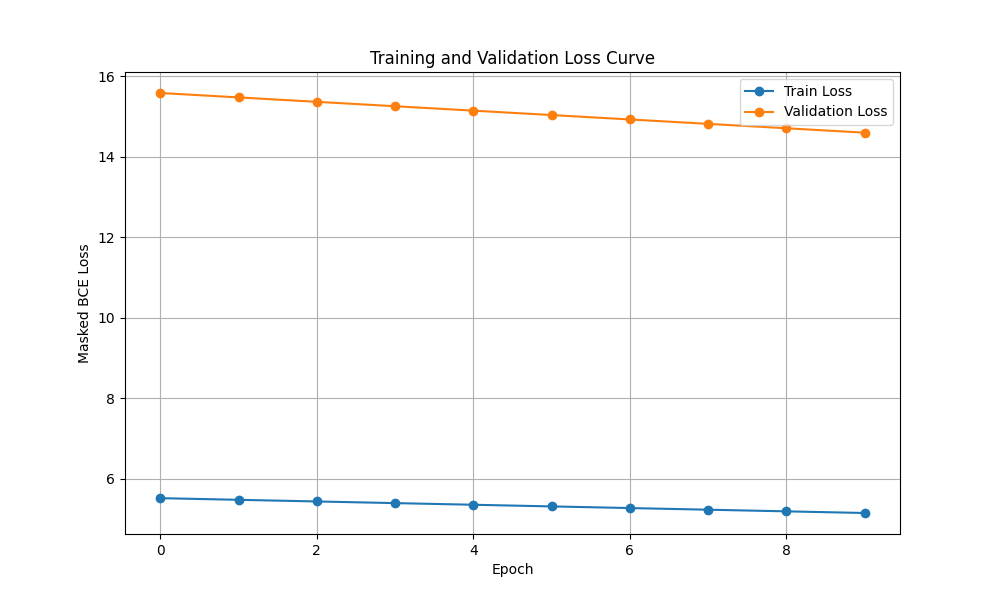
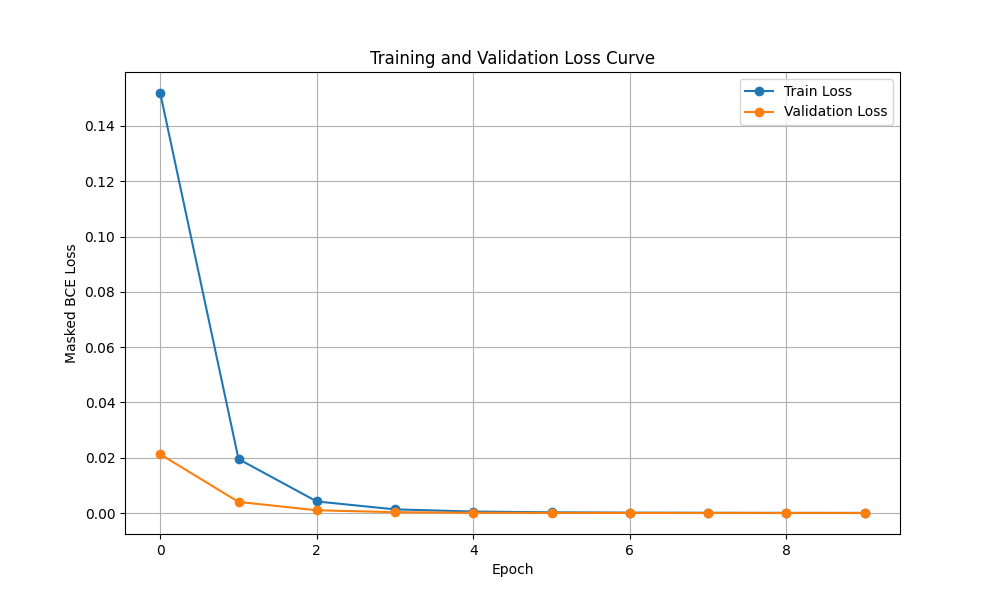
fixed targets

diff --git a/src/seeder.py b/src/seeder.py
@@ -8,24 +8,29 @@ class SimplicialSeeder:
     Seeding strategies for Simplicial Contagion Models.
     Designed to be stateless with respect to tree expansion to support BFS/MCMC rollouts safely.
     """
-    def __init__(self, data_dir: str = None):
-        if data_dir is None:
-            data_dir = Path.cwd().parent / "notebooks" / "data"
+    def __init__(self, num_nodes: int, links: List[List[int]], flat_triangles: List[Tuple[int, int, int]]):
+        self.N = num_nodes
+        self.links = links
+        
+        # 1. Reconstruct the nested adjacency list expected by the CELF proxy
+        self.triangles = [[] for _ in range(self.N)]
+        for i, j, k in flat_triangles:
+            self.triangles[i].append((j, k))
+
+        # 2. Convert flat triangles into a unique [3, T] tensor for vectorization
+        triplets = set()
+        for i, j, k in flat_triangles:
+            triplets.add(tuple(sorted([i, j, k])))
+        
+        if triplets:
+            self.triangles_tensor = torch.tensor(list(triplets), dtype=torch.long).t()
         else:
-            data_dir = Path(data_dir)
-
-        # Load topologies
-        self.edge_index_1 = torch.load(data_dir / "edge_index_simple.pt")
-        self.edge_attr_1 = torch.load(data_dir / "edge_attr_simple.pt")
-        self.edge_index_2 = torch.load(data_dir / "edge_index_hyper.pt")
-        self.edge_attr_2 = torch.load(data_dir / "edge_attr_hyper.pt")
-
-        self.N = max(self.edge_index_1.max().item(), self.edge_index_2.max().item()) + 1
+            self.triangles_tensor = torch.empty((3, 0), dtype=torch.long)
 
         self._precompute_simplicial_degree()
         self._precompute_co_seeding_edges()
 
-        self._build_adjacency_lists()
+        # Pass the reconstructed nested list to CELF
         self.celf_optimizer = OptimizedSimplicialSeeding(self.N, 0.0, self.links, self.triangles)
 
     def __call__(self, current_seeds: List[int], beta: float = 0.1, beta_delta: float = 0.2) -> List[Tuple[int, float]]:
@@ -61,15 +66,23 @@ class SimplicialSeeder:
         return candidates
 
     def _precompute_simplicial_degree(self):
-        """$O(N)$ vectorization for 2-simplex participation counts."""
-        self.node_tri_counts = torch.bincount(self.edge_index_2.flatten(), minlength=self.N)
+        """O(N) vectorization for 2-simplex participation counts."""
+        if self.triangles_tensor.numel() == 0:
+            self.simplicial_ranking = []
+            return
+            
+        self.node_tri_counts = torch.bincount(self.triangles_tensor.flatten(), minlength=self.N)
         self.simplicial_ranking = torch.argsort(self.node_tri_counts, descending=True).tolist()
 
     def _precompute_co_seeding_edges(self):
-        """$O(T \log T)$ vectorized edge overlap precomputation."""
-        e1 = self.edge_index_2[[0, 1], :]
-        e2 = self.edge_index_2[[1, 2], :]
-        e3 = self.edge_index_2[[0, 2], :]
+        """O(T \log T) vectorized edge overlap precomputation."""
+        if self.triangles_tensor.numel() == 0:
+            self.sorted_edges = []
+            return
+            
+        e1 = self.triangles_tensor[[0, 1], :]
+        e2 = self.triangles_tensor[[1, 2], :]
+        e3 = self.triangles_tensor[[0, 2], :]
         
         all_edges = torch.cat([e1, e2, e3], dim=1)
         all_edges, _ = torch.sort(all_edges, dim=0) # Order invariant
@@ -211,23 +224,30 @@ class OptimizedSimplicialSeeding:
             
         return spread
 
-    def seed_celf_proxy(self, beta, beta_delta):
+    def seed_celf_proxy(self, beta, beta_delta, initial_seeds=None):
         """
-        Greedy CELF using the deterministic 1-hop proxy.
-        Generates consistent, repeatable seed sets based on structural potential.
+        Modified to calculate marginal gains on top of an existing seed state
+        to support incremental rollout tracking.
         """
-        if self.target_count == 0:
-            return []
-
-        seed_set = set()
-        Q = [] 
+        seed_set = set(initial_seeds) if initial_seeds else set()
         
-        # 1. Initial pass
-        for node in range(self.N):
-            spread = self._proxy_spread({node}, beta, beta_delta)
-            heapq.heappush(Q, (-spread, node, 0))
+        if self.target_count <= len(seed_set):
+            return list(seed_set)
 
-        current_spread = 0.0
+        Q = [] 
+        current_spread = self._proxy_spread(seed_set, beta, beta_delta) if seed_set else 0.0
+        
+        # 1. Initial pass - evaluate marginal gain relative to initial_seeds
+        for node in range(self.N):
+            if node in seed_set:
+                continue
+                
+            seed_set.add(node)
+            spread = self._proxy_spread(seed_set, beta, beta_delta)
+            seed_set.remove(node)
+            
+            marginal_gain = spread - current_spread
+            heapq.heappush(Q, (-marginal_gain, node, len(seed_set)))
 
         # 2. Lazy evaluation loop
         while len(seed_set) < self.target_count:

diff --git a/src/preprocess.py b/src/preprocess.py
@@ -160,8 +160,8 @@ class ImitationDataGenerator:
                 if not candidate_metrics:
                     continue
                     
-                scaled_targets = {
-                    cand: max(0.0, 1.0 - (steps / self.max_sim_steps))
+                raw_targets = {
+                    cand: steps
                     for cand, steps in candidate_metrics
                 }
                 
@@ -169,7 +169,7 @@ class ImitationDataGenerator:
                 dataset.append({
                     'event_id': event_id, 
                     'current_seeds': list(current_seeds), 
-                    'candidate_targets': scaled_targets
+                    'candidate_targets': raw_targets
                 })
                 
                 candidate_metrics.sort(key=lambda x: x[1])
@@ -199,10 +199,13 @@ import torch
 from torch.utils.data import Dataset
 
 class StaticGraphSeedingDataset(Dataset):
-    def __init__(self, imitation_dataset, num_nodes, event_features_tensor):
+    def __init__(self, imitation_dataset, num_nodes, event_features_tensor, max_sim_steps=50, scaling_mode='inverse', decay_rate=0.1):
         self.data_list = imitation_dataset
         self.num_nodes = num_nodes
         self.event_features_tensor = event_features_tensor
+        self.max_sim_steps = max_sim_steps
+        self.scaling_mode = scaling_mode
+        self.decay_rate = decay_rate
 
     def __len__(self):
         return len(self.data_list)
@@ -217,8 +220,27 @@ class StaticGraphSeedingDataset(Dataset):
         y = torch.zeros(self.num_nodes, dtype=torch.float)
         candidate_mask = torch.zeros(self.num_nodes, dtype=torch.bool)
         
-        for cand_node, score in item['candidate_targets'].items():
-            y[cand_node] = score
+        for cand_node, raw_steps in item['candidate_targets'].items():
+            # If the simulation hit max_steps, it failed to reach the target. 
+            # Force the score to 0 to heavily penalize dead-end seeds.
+            if raw_steps >= self.max_sim_steps:
+                scaled_score = 0.0
+            else:
+                if self.scaling_mode == 'inverse':
+                    # Max score 1.0 at t=1, asymptotically approaches 0
+                    scaled_score = 1.0 / max(1.0, float(raw_steps))
+                
+                elif self.scaling_mode == 'exponential':
+                    # Max score 1.0 at t=1, decays based on decay_rate
+                    scaled_score = np.exp(-self.decay_rate * (max(1.0, float(raw_steps)) - 1.0))
+                
+                elif self.scaling_mode == 'linear':
+                    scaled_score = max(0.0, 1.0 - (raw_steps / self.max_sim_steps))
+                    
+                else:
+                    raise ValueError(f"Unknown scaling mode: {self.scaling_mode}")
+
+            y[cand_node] = scaled_score
             candidate_mask[cand_node] = True
             
         # Fetch dense event features using the integer ID
@@ -243,7 +265,7 @@ import torch
 import os
 from torch.utils.data import DataLoader
 
-def build_production_dataloader(imitation_dataset, user_idx, event_idx, data_dir="data", batch_size=32, shuffle=True):
+def build_production_dataloader(imitation_dataset, user_idx, event_idx, data_dir="data", batch_size=32, shuffle=True, max_sim_steps=50):
     num_nodes = len(user_idx)
     
     print("Loading static graph topology...")
@@ -273,7 +295,7 @@ def build_production_dataloader(imitation_dataset, user_idx, event_idx, data_dir
     # FIX: Explicitly cast the underlying numpy array to a homogenous float32 block
     event_features_tensor = torch.tensor(aligned_event_features.values.astype(np.float32), dtype=torch.float)
     
-    dataset = StaticGraphSeedingDataset(imitation_dataset, num_nodes, event_features_tensor)
+    dataset = StaticGraphSeedingDataset(imitation_dataset, num_nodes, event_features_tensor, max_sim_steps=max_sim_steps)
     
     dataloader = DataLoader(
         dataset,

diff --git a/src/training.py b/src/training.py
@@ -116,23 +116,21 @@ from sklearn.model_selection import train_test_split
 from preprocess import build_production_dataloader
 
 def load_and_prepare_training_data(data_dir="data", batch_size=32, val_split=0.2, random_seed=42):
-    """
-    Loads the precomputed MCMC imitation data, splits it, and initializes the dataloader pipelines.
-    """
-    print("Loading imitation data from disk...")
+    
+    # 1. Load the actual imitation dataset generated by the simulator
+    print("Loading imitation data...")
     with open(f"{data_dir}/imitation_data.pkl", "rb") as f:
         imitation_dataset = pickle.load(f)
-
-    print("Loading index mappings...")
+        
+    # 2. Load the index mappings
     with open(f"{data_dir}/user_idx.pkl", "rb") as f:
         user_idx = pickle.load(f)
-        
     with open(f"{data_dir}/event_idx.pkl", "rb") as f:
         event_idx = pickle.load(f)
 
     print(f"Splitting data with {val_split*100}% validation ratio...")
     train_data, val_data = train_test_split(
-        imitation_dataset, 
+        imitation_dataset, # Pass the simulation rollouts, not the edge indices
         test_size=val_split, 
         random_state=random_seed
     )
@@ -158,6 +156,4 @@ def load_and_prepare_training_data(data_dir="data", batch_size=32, val_split=0.2
         shuffle=False
     )
     
-    # static_graph from the val_dataloader is discarded as it should be identical 
-    # to the one generated by the train_dataloader.
     return train_dataloader, val_dataloader, static_graph